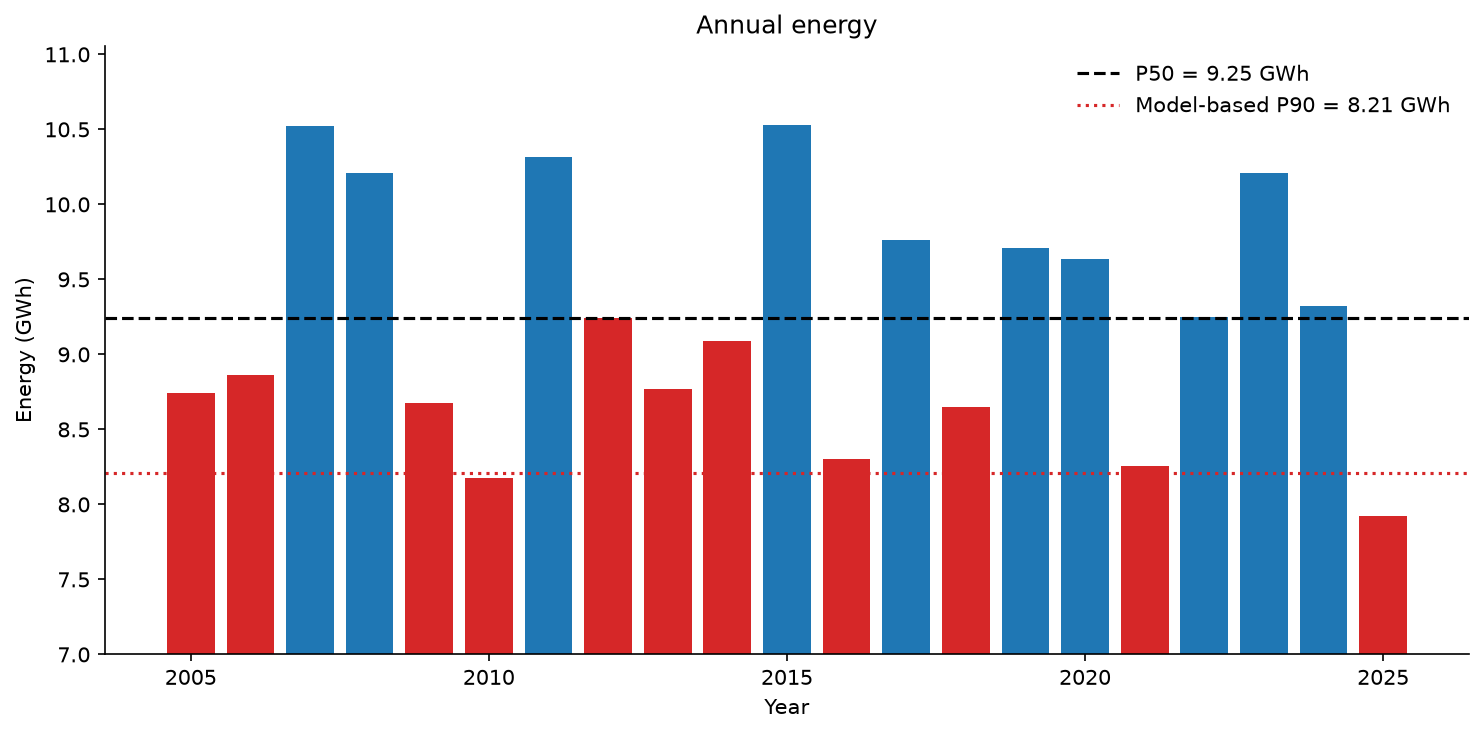
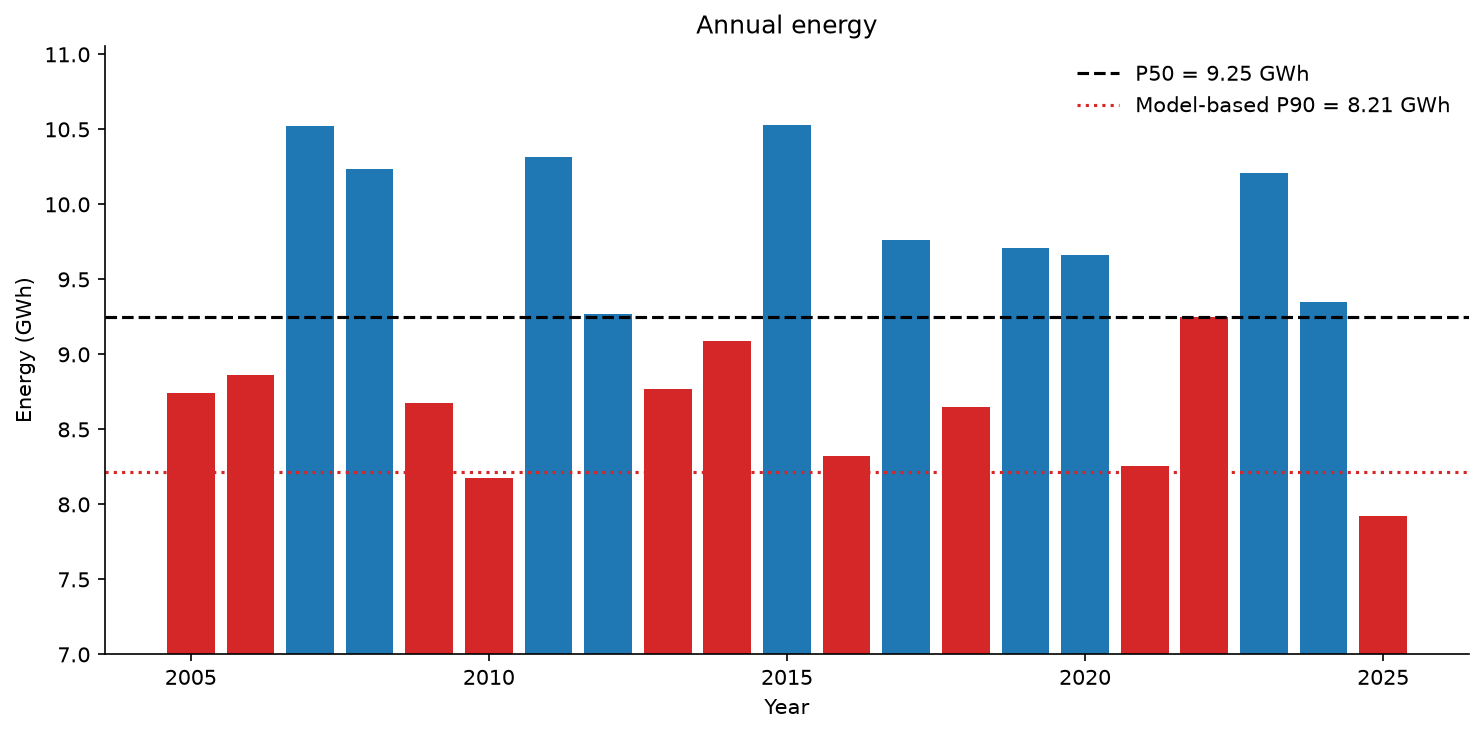
Add tested annual_energy function using actual hours (fix leap years)

diff --git a/src/windtools.py b/src/windtools.py
@@ -44,6 +44,34 @@ def add_capacity_factor(df, **curve_kwargs):
     return df
 
 
+def annual_energy(power):
+    """Calculate energy per calendar year from a power time series.
+
+    Parameters
+    ----------
+    power : pandas Series
+        Power in kW, with a sorted, duplicate-free DatetimeIndex.
+
+    Returns
+    -------
+    pandas Series of energy in kWh, indexed by year.
+
+    The time step is the median spacing of the index. Each value counts for one
+    time step, so missing timestamps and NaN values add no energy.
+    """
+    if not isinstance(power.index, pd.DatetimeIndex):
+        raise TypeError("power must have a DatetimeIndex")
+    if len(power) < 2:
+        raise ValueError("power must contain at least two values to infer the time step")
+    if not power.index.is_monotonic_increasing or not power.index.is_unique:
+        raise ValueError("power index must be sorted and contain no duplicates")
+
+    step_hours = power.index.to_series().diff().median() / pd.Timedelta(hours=1)
+    energy = (power * step_hours).groupby(power.index.year).sum()
+    energy.index.name = "year"
+    return energy.rename("energy_kwh")
+
+
 def p_values(annual_energy, horizon_years=1):
     """Calculate P50, sample standard deviation, and horizon-adjusted P90.
 

diff --git a/tests/test_windtools.py b/tests/test_windtools.py
@@ -1,0 +1,28 @@
+"""Tests for src/windtools.py."""
+
+import sys
+from pathlib import Path
+
+import pandas as pd
+import pytest
+
+sys.path.append(str(Path(__file__).parents[1] / "src"))
+
+import windtools as wt
+
+
+@pytest.mark.parametrize(
+    "year, expected_kwh",
+    [
+        (2020, 8784),  # leap year
+        (2021, 8760),
+    ],
+)
+def test_annual_energy_constant_1_kw(year, expected_kwh):
+    hours = pd.date_range(f"{year}-01-01 00:00", f"{year}-12-31 23:00", freq="h")
+    power = pd.Series(1.0, index=hours)
+
+    energy = wt.annual_energy(power)
+
+    assert list(energy.index) == [year]
+    assert energy.loc[year] == pytest.approx(expected_kwh)

diff --git a/CLAUDE.md b/CLAUDE.md
@@ -1,0 +1,7 @@
+# CLAUDE.md
+
+## Testing
+
+This project uses a virtual environment in `.venv`. Run tests with:
+
+    .venv/bin/python -m pytest
